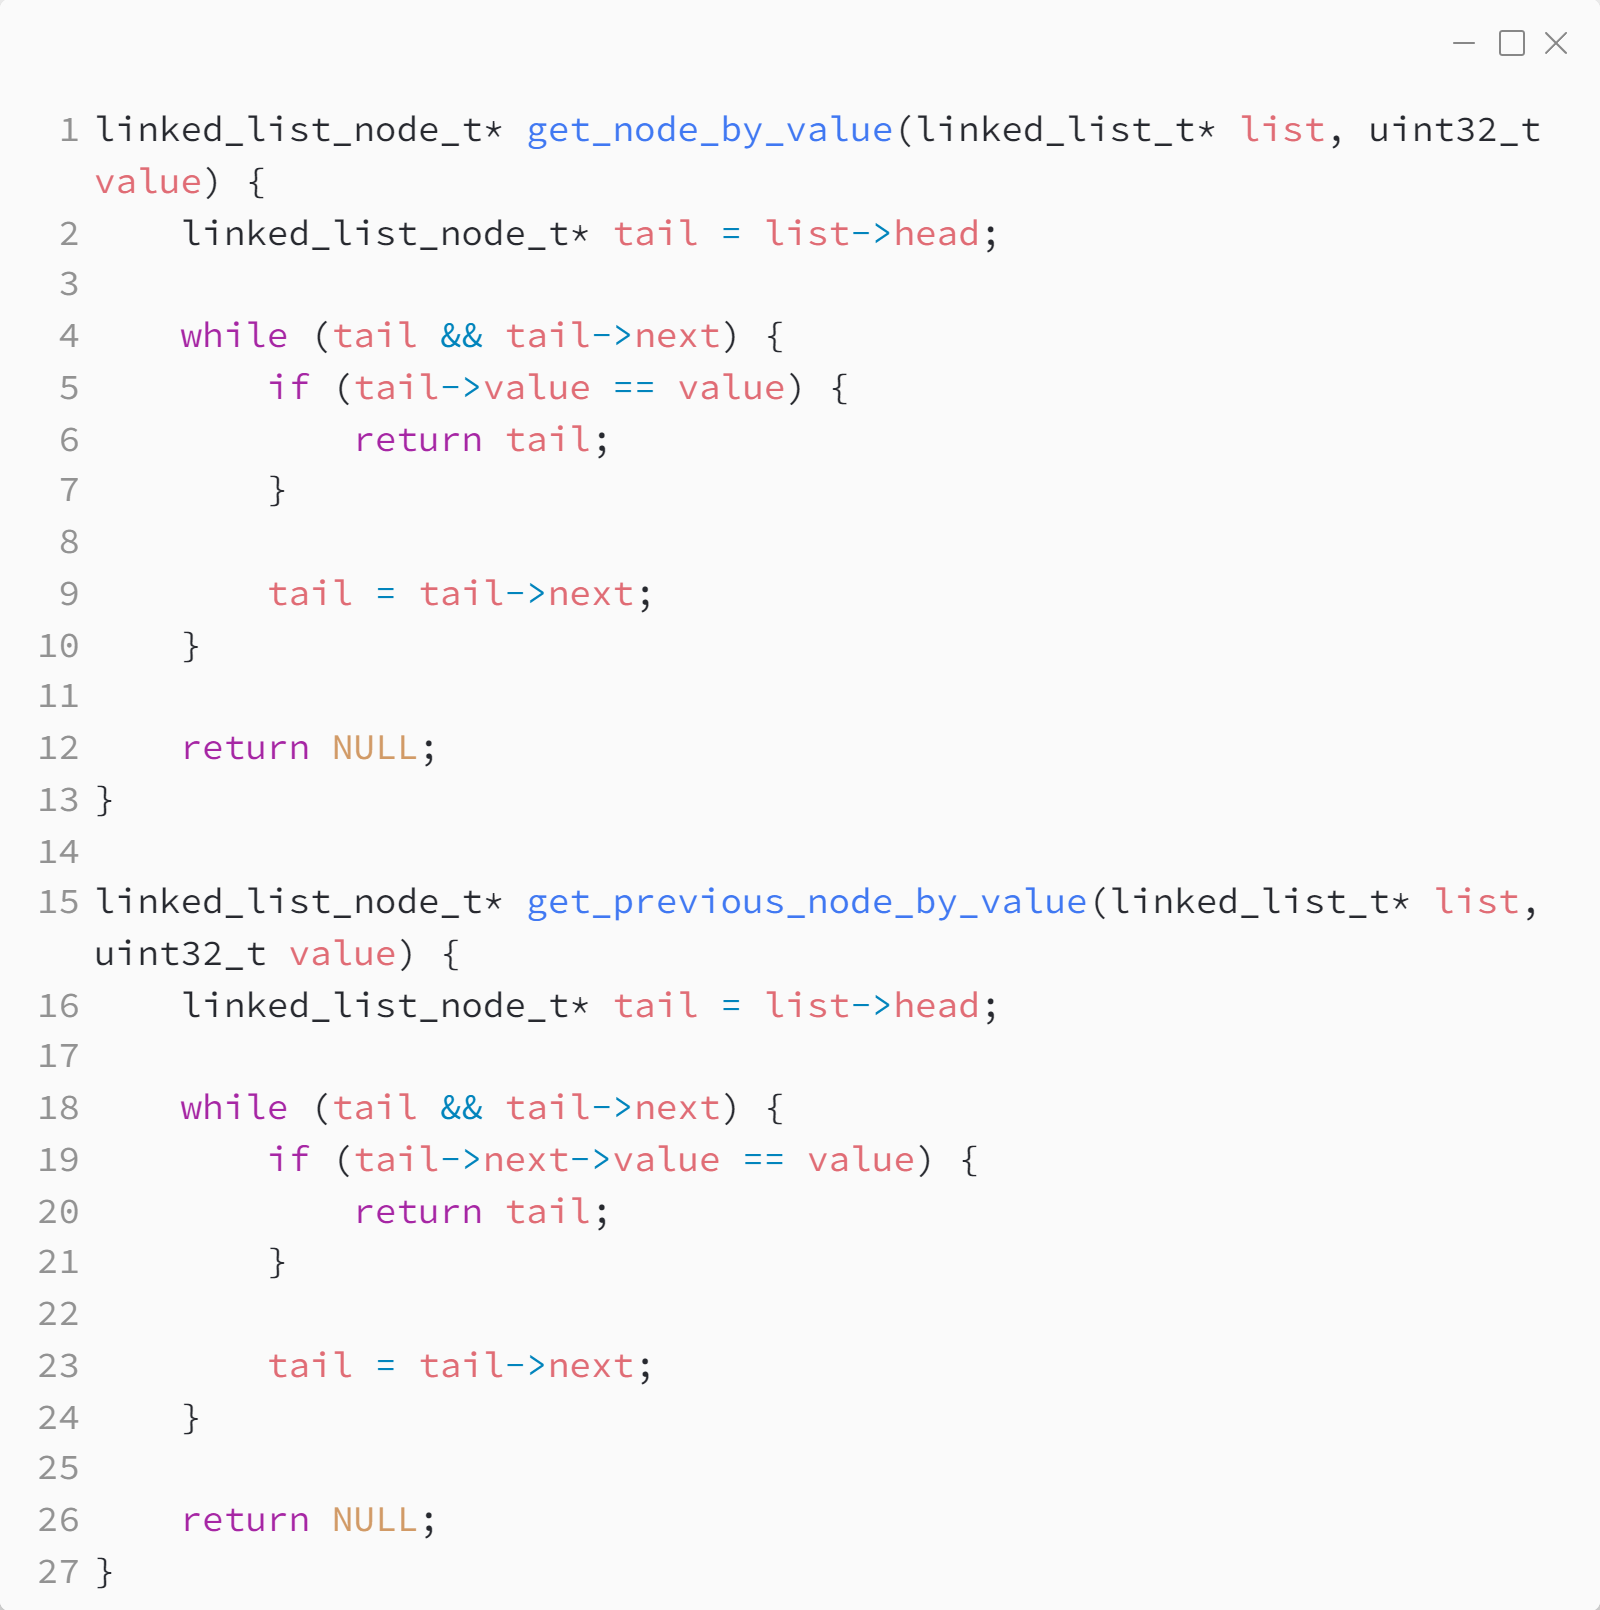
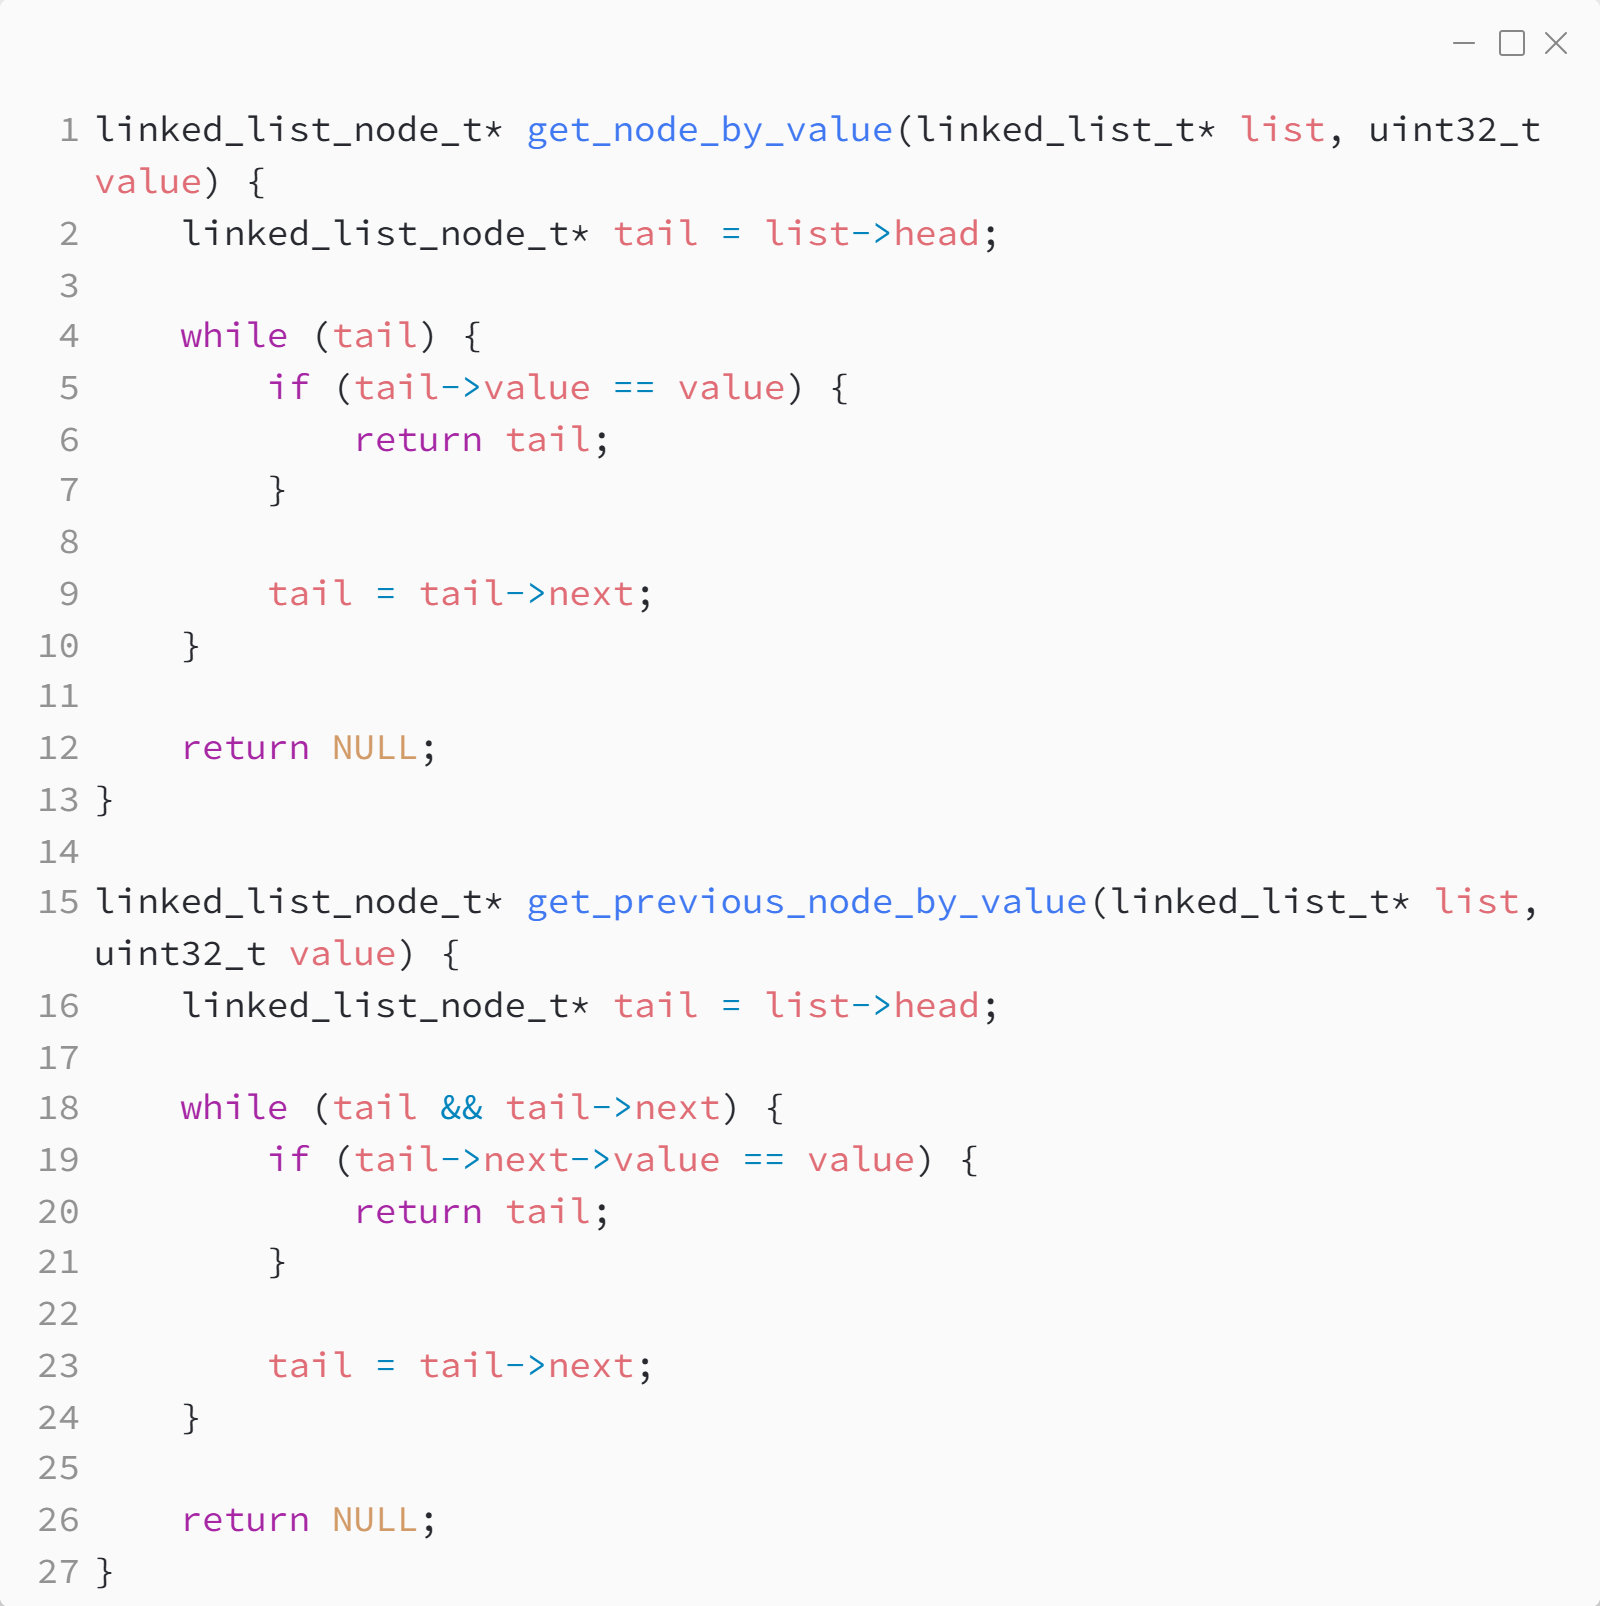
fix linked_list

diff --git a/5_simple_data_structures/practice/src/linked_list.c b/5_simple_data_structures/practice/src/linked_list.c
@@ -26,7 +26,7 @@ linked_list_node_t* get_tail_node(linked_list_t* list) {
 linked_list_node_t* get_node_by_value(linked_list_t* list, uint32_t value) {
     linked_list_node_t* tail = list->head;
 
-    while (tail && tail->next) {
+    while (tail) {
         if (tail->value == value) {
             return tail;
         }
@@ -123,6 +123,10 @@ void delete_value(linked_list_t* list, uint32_t value_to_delete) {
         linked_list_node_t* next_node_after_deleted = node_to_delete_after->next->next;
         free(node_to_delete_after->next);
         node_to_delete_after->next = next_node_after_deleted;
+    } else{
+        linked_list_node_t* node_to_delete = get_node_by_value(list, value_to_delete);
+        list->head = node_to_delete->next;
+        free(node_to_delete);
     }
 }
 
